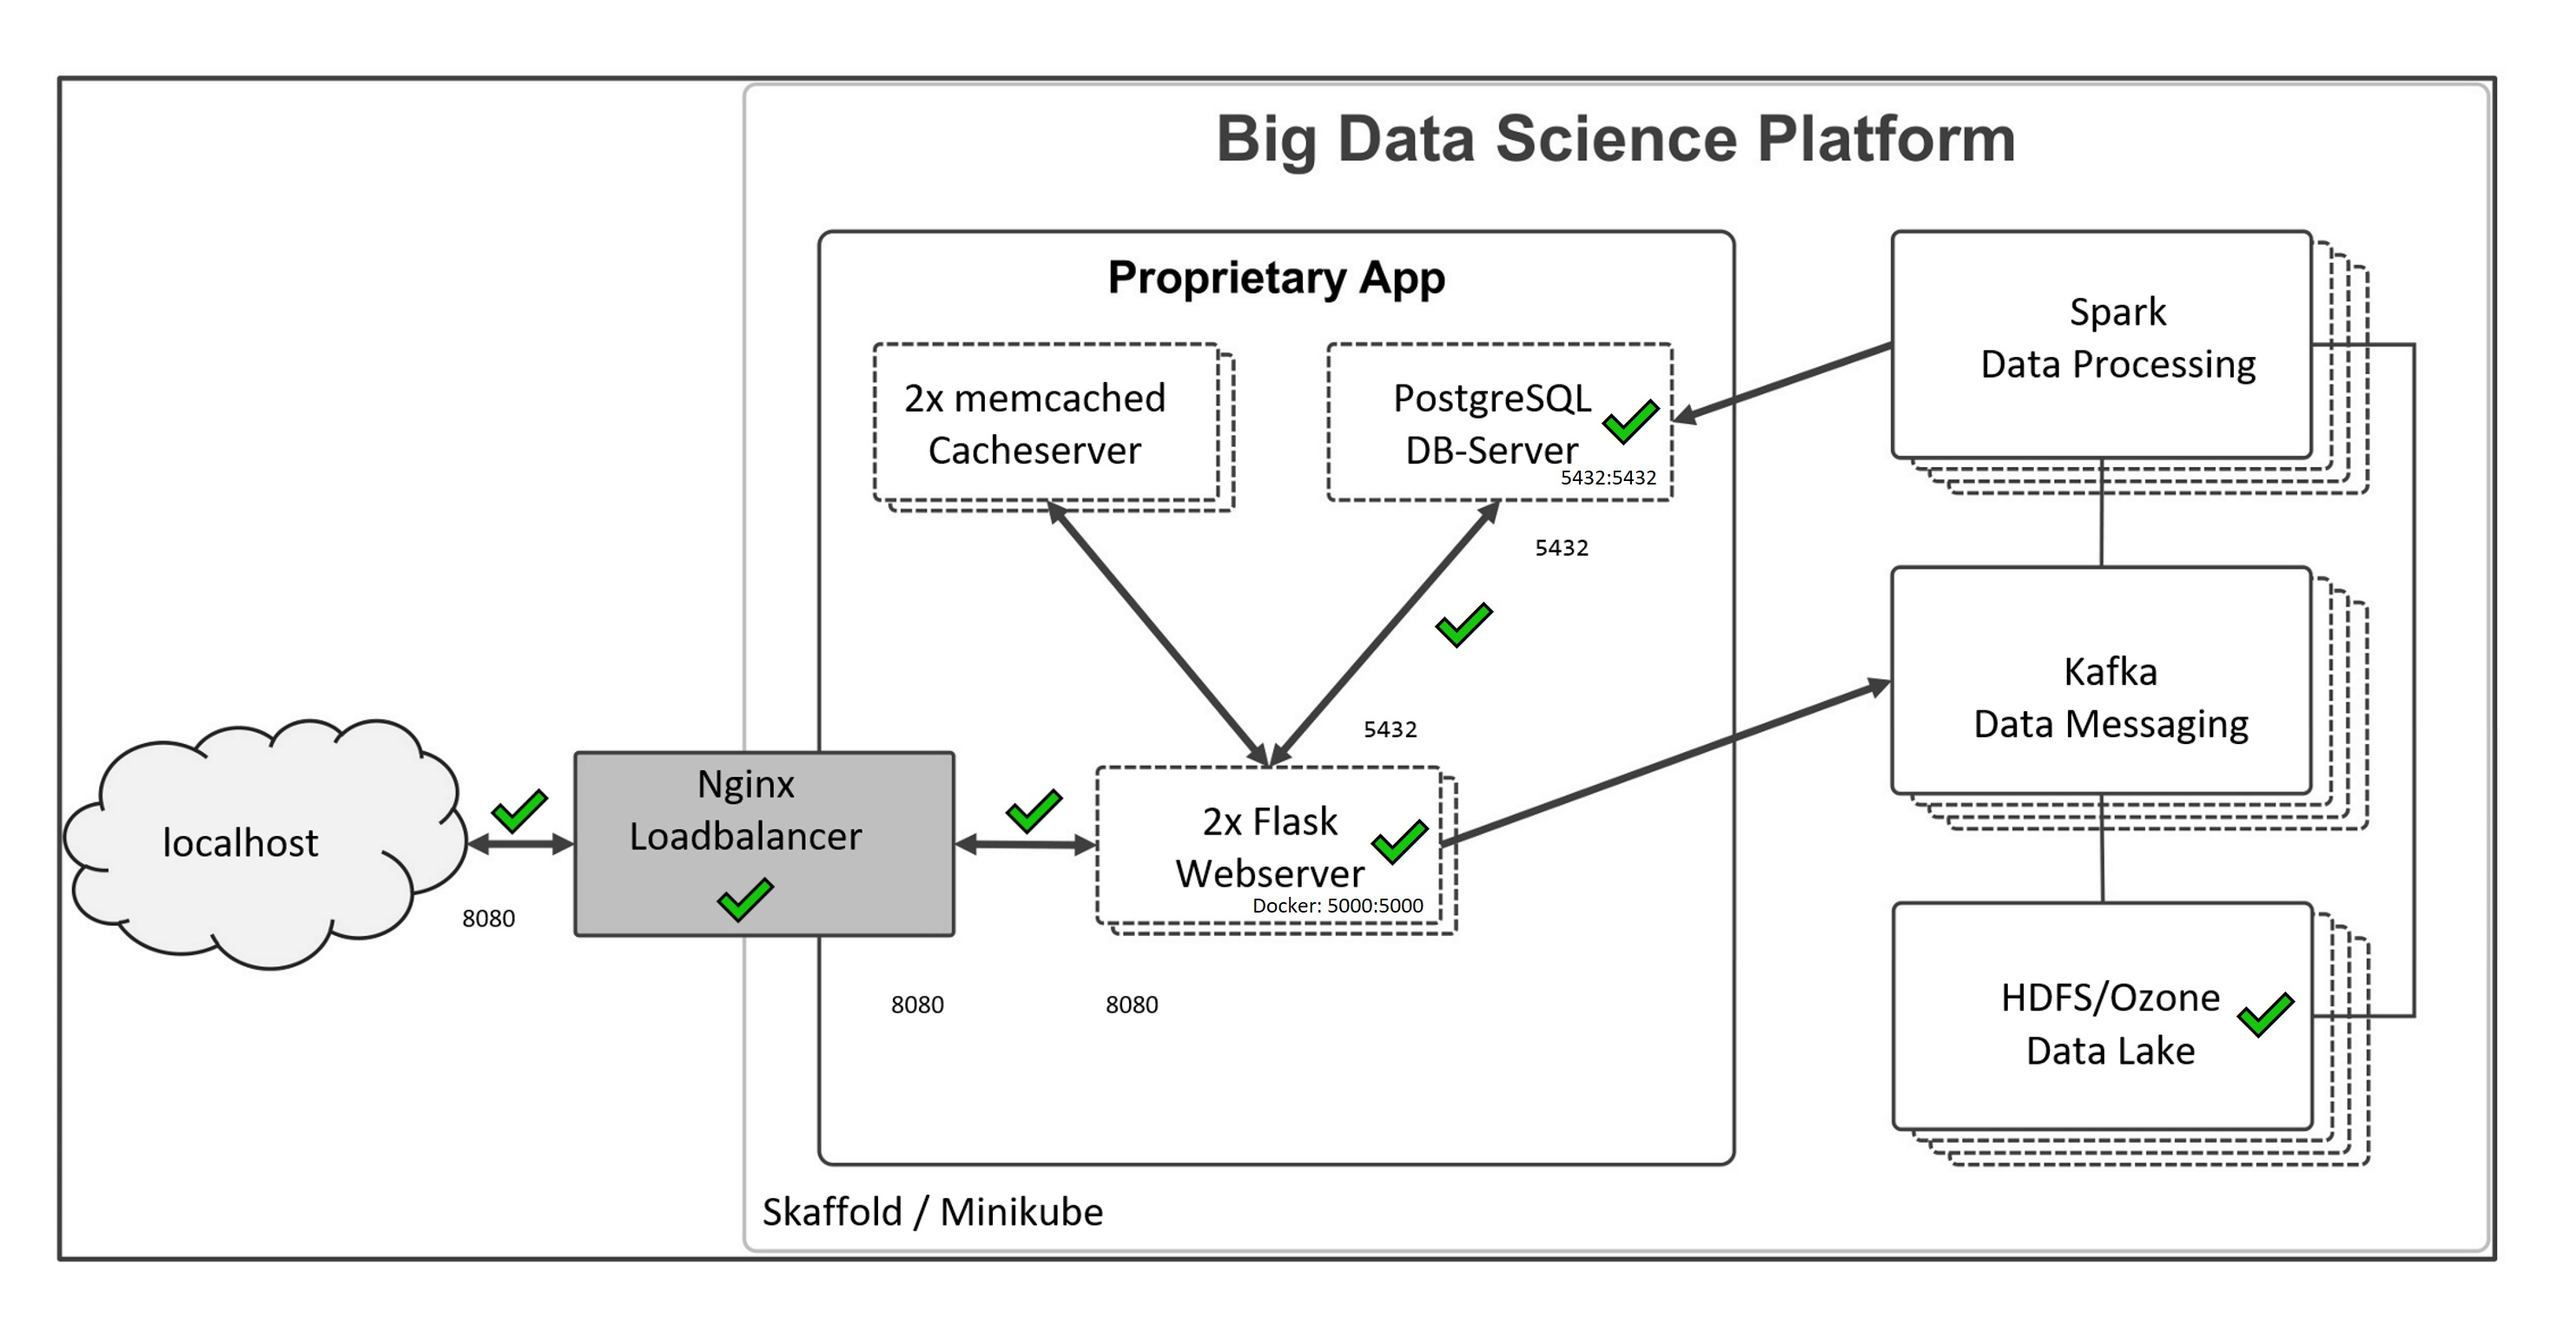
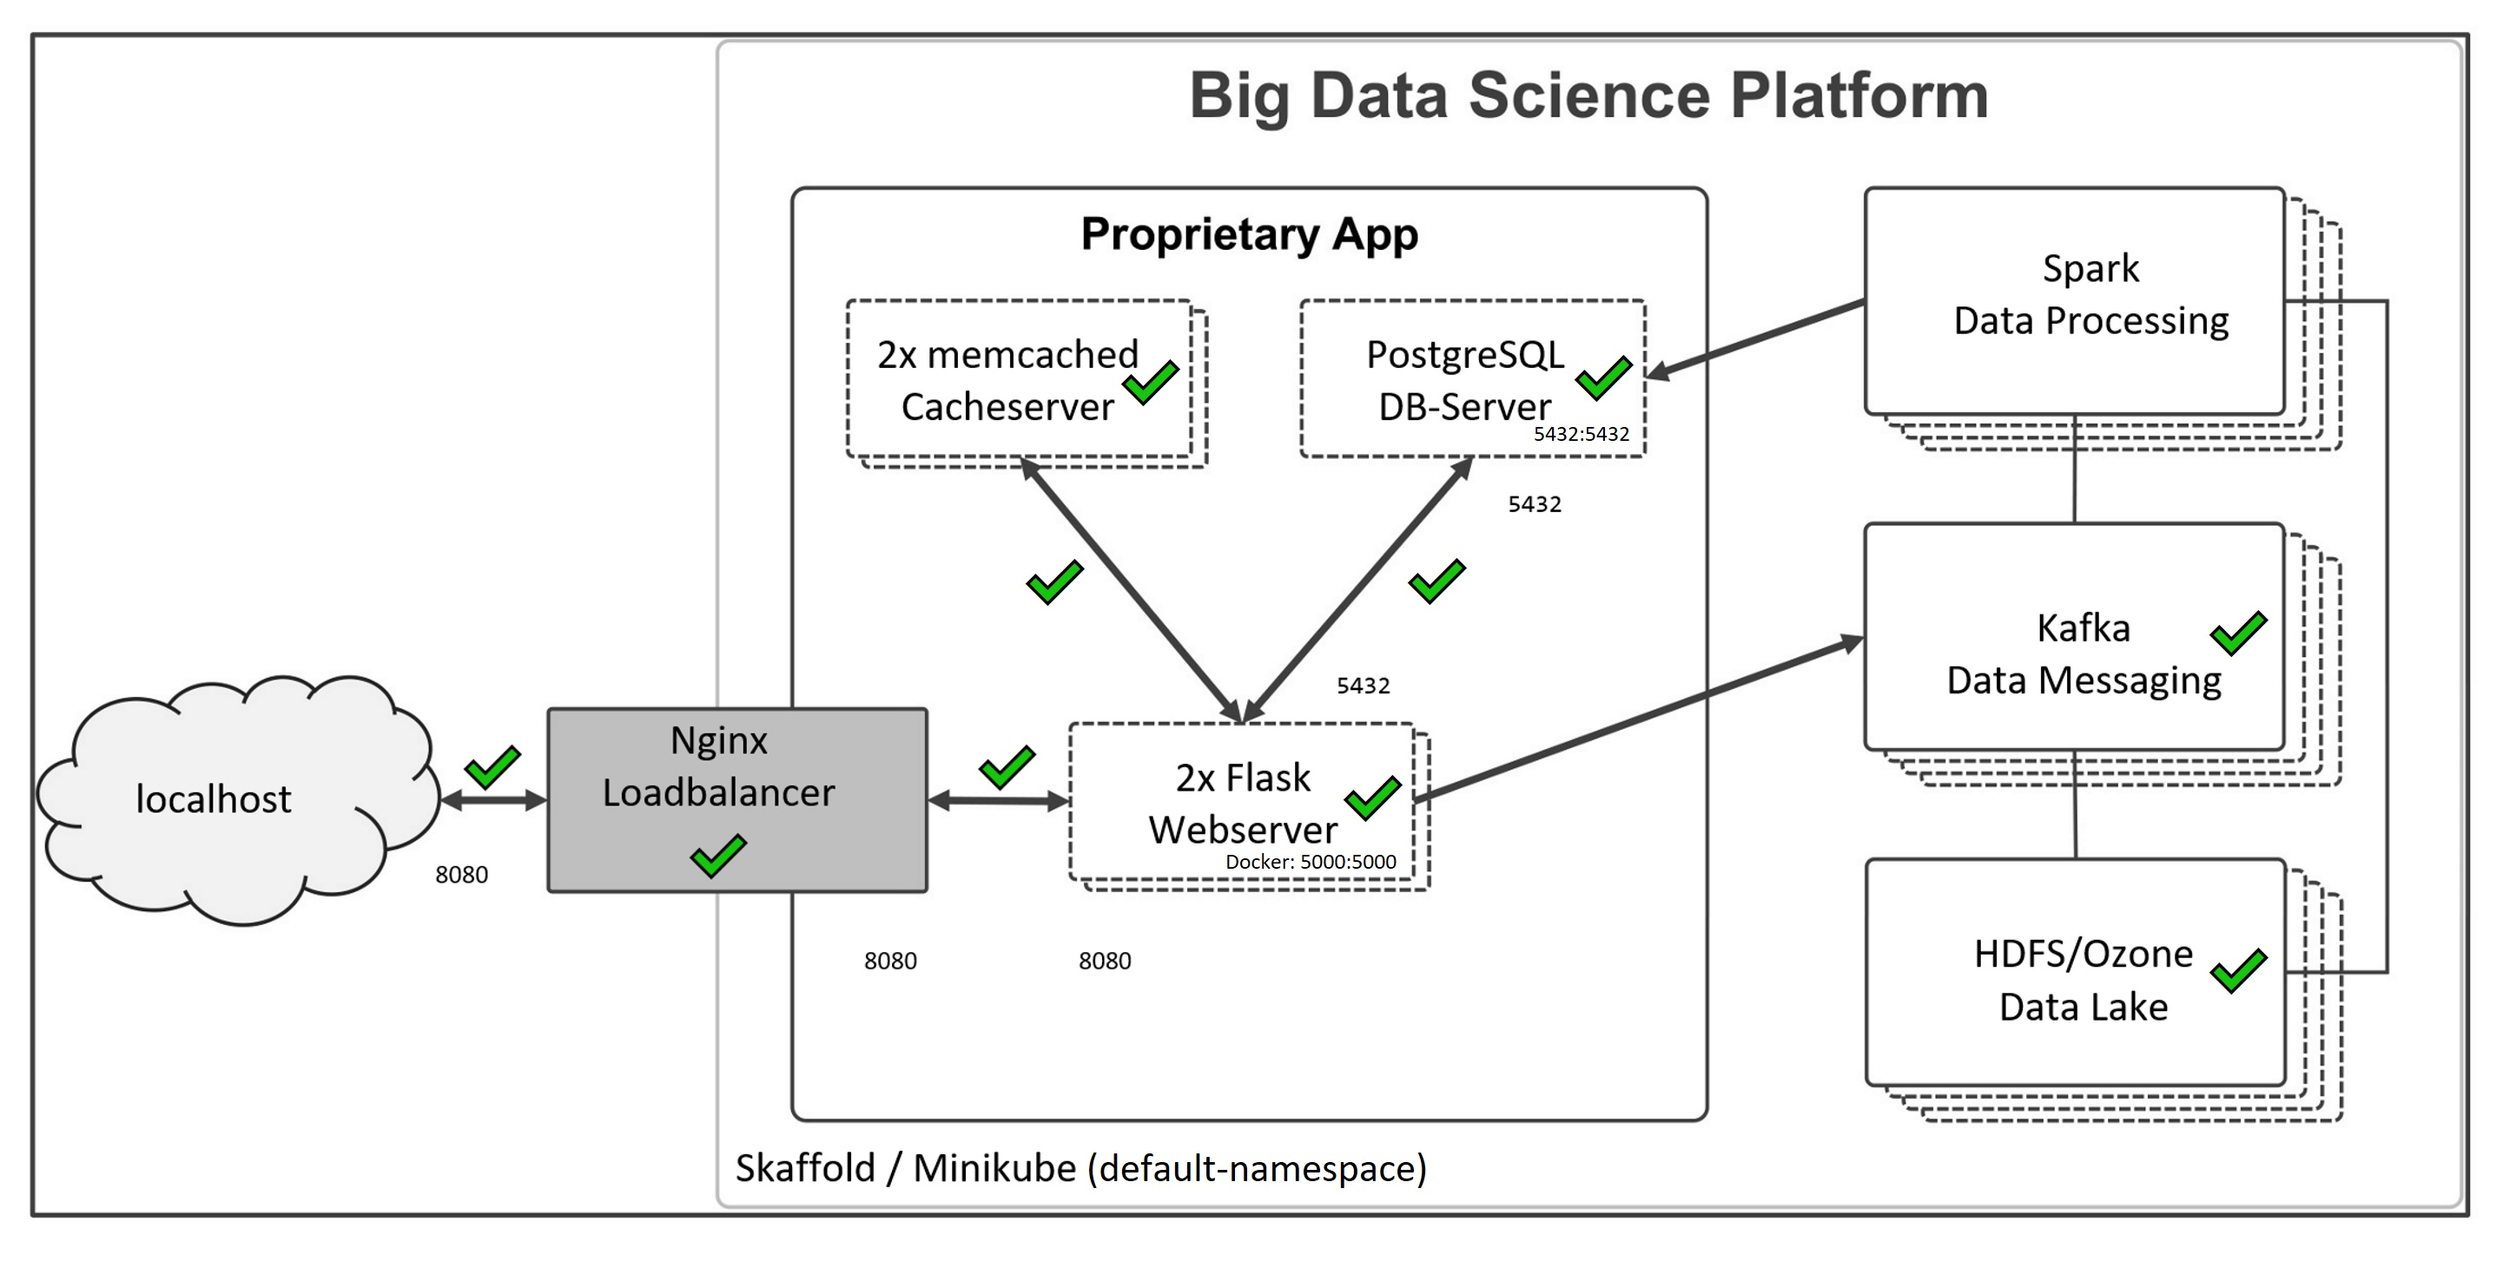
cacheserver-Verbindung und kafka topic erstellt

diff --git a/skaffold-STABLE/webapp/best.html b/skaffold-STABLE/webapp/best.html
@@ -1,0 +1,14 @@
+<!DOCTYPE html>
+<html>
+<body>
+
+<h1>Vielen Dank für ihre Buchung</h1>
+
+<script>
+    setTimeout(function(){
+        window.location.href = '/index3.html';
+    }, 3000);
+</script>
+
+</body>
+</html>

diff --git a/skaffold-STABLE/webapp/hello.py b/skaffold-STABLE/webapp/hello.py
@@ -2,9 +2,14 @@ from flask import Flask, render_template, request, redirect, url_for, flash
 import emoji
 import socket
 import psycopg2
-
+#from pymemcache.client import base
+from pymemcache.client.base import Client
+#import time
+from essential_generators import DocumentGenerator
+from kafka import KafkaProducer
 # Lennart, 26.8
 # from flask_caching import Cache
+client = Client('memcached-service')
 
 app=Flask(__name__)
 # cache = Cache()
@@ -21,39 +26,19 @@ def Index():
 #   Die Verbindung zur Datenbank steht bereits.
 @app.route('/cachetest')
 def test():
-   # cache_servers = os.environ.get ??? ('MEMCACHIER_SERVERS')
-   # if cache_servers == None:
-       # cache.init_app(app, config={'CACHE_TYPE': 'memcached'})
-   # else:
-   #         cache.init_app(app,
-   #         config={'CACHE_TYPE': 'memcached',
-   #                 'CACHE_MEMCACHED_SERVERS': "memcached",
-   #                 'CACHE_OPTIONS': { 'behaviors': {
-   #                     # Faster IO
-   #                     'tcp_nodelay': True,
-   #                     # Keep connection alive
-   #                     'tcp_keepalive': True,
-   #                     # Timeout for set/get requests
-   #                     'connect_timeout': 2000, # ms
-   #                     'send_timeout': 750 * 1000, # us
-   #                     'receive_timeout': 750 * 1000, # us
-   #                     '_poll_timeout': 2000, # ms
-   #                     # Better failover
-   #                     'ketama': True,
-   #                     'remove_failed': 1,
-   #                     'retry_timeout': 2,
-   #                     'dead_timeout': 30}}})
-# --------------------------------
-   # config = {
-   # DBUG": True,          # some Flask specific configs
-   #"CACHE_TYPE": "Memcached"
-   #"CACHE_DEFAULT_TIMEOUT": 300
-# }
+    cache_result = client.get('flights')
 
+    if cache_result is None:  #flights nicht verfügbar
+        con = psycopg2.connect("host=postgres port=5432 dbname=kranichairline_db user=postgres password=postgres")
+        cur = con.cursor()
+        cur.execute("select * from flights")
+        data = cur.fetchall()
+        cur.close()
+        client.set('flights', data)
+        return emoji.emojize('Cacheeintrag :poop:', use_aliases=True) 
+    else: 
+        return emoji.emojize('Cacheserver geht :thums_up:', use_aliases=True) 
 
-# Tell Flask to use the above defined config
-# app.config.from_mapping(config) 
-# cache = Cache(app)
 
     try: 
         con = psycopg2.connect("host=postgres port=5432 dbname=kranichairline_db user=postgres password=postgres")
@@ -127,30 +112,22 @@ def podtest():
         return emoji.emojize('Datenbank :poop:', use_aliases=True)     
 
 # Funktion zum Senden der Daten an das Kafka-Topic, die bei Klick des Buttons aufgerufen wird
-@app.route('/your_flask_funtion')
+@app.route('/kafka')
 def your_flask_funtion():
     
     # Vorlage aus Vorlesungs-Skript
 
-    # import time
-    # from essential_generators import DocumentGenerator
-    # from kafka import KafkaProducer
+    #gen = DocumentGenerator()
 
-    # gen = DocumentGenerator()
+    producer = KafkaProducer(
+    bootstrap_servers='my-cluster-kafka-kafka11-bootstrap:29092')
 
-    # producer = KafkaProducer(
-    #     bootstrap_servers='my-cluster-kafka-bootstrap:9092')
-
-    # while True:
-    #     next_msg = gen.sentence()
-    #     print(f"Sending message: {next_msg}")
-    #     future = producer.send("big_data_demo", next_msg.encode())
-    #     result = future.get(timeout=5)
-    #     print(f"Result: {result}")
-    #     time.sleep(2)
-
-    print("coolio")
-    return emoji.emojize('Datenbank :poop:', use_aliases=True)
+    next_click = "ein Klick passiert"
+#     print(f"Sending message: {next_click}")
+    future = producer.send("1337datascience", next_click)
+    result = future.get(timeout=5)
+#     print(f"Result: {result}")
+    return result
 
 ## Hier noch die Abfrage richtig machen dass auch gespeichert wird. So erhöht er zwar die Preise aber die DB-Einträge werden 
 # irgendwie nicht geändert
@@ -169,3 +146,40 @@ def changetest():
         data=e
         return emoji.emojize('Datenbank-Schreiben :poop:', use_aliases=True)      
   
+@app.route('/kafkaread')  
+
+def kafkaread():
+    
+    from kafka import KafkaConsumer
+    # The bootstrap server to connect to
+    bootstrap = 'my-cluster-kafka-kafka-bootstrap:9092'
+    # Create a comsumer instance
+    # cf.
+    print('Starting KafkaConsumer')
+    consumer = KafkaConsumer('1337datascience', # <-- topics
+    bootstrap_servers=bootstrap)
+    # Print out all received messages
+    data=[]
+    for msg in consumer:
+        data.append(msg)
+    return render_template('index3.html', data=data)
+
+
+@app.route('/kafkaread2')  
+
+def kafkaread2():
+    
+    from kafka import KafkaConsumer
+    # The bootstrap server to connect to
+    bootstrap = 'my-cluster-kafka-kafka-bootstrap:9092'
+    # Create a comsumer instance
+    # cf.
+    print('Starting KafkaConsumer')
+    consumer = KafkaConsumer('1337datascience', # <-- topics
+    bootstrap_servers=bootstrap)
+    # Print out all received messages
+    data=[]
+    for msg in consumer:
+        data.append(msg)
+    return data
+
